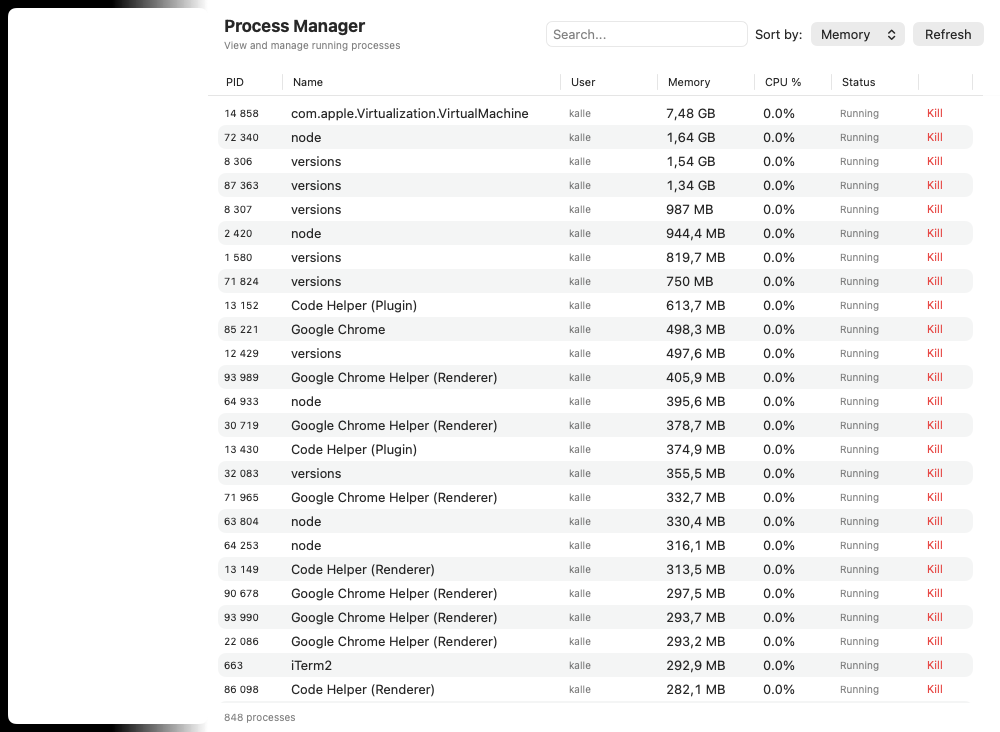
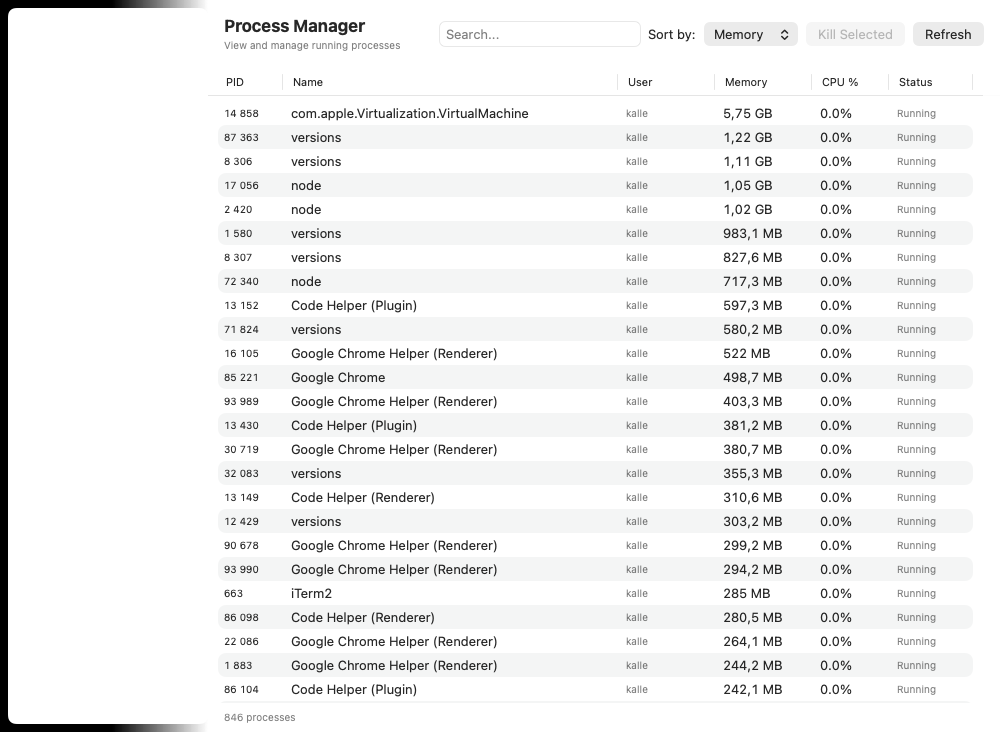
fix(ui): resolve medium-priority layout and accounting issues (#10-#13)
- Large File Finder: center empty state vertically, add scanning state
- DNS Flush: show DNS server config from scutil, add usage guidance section
- CacheCleaner: measure actual freed bytes via before/after scan instead of
  assuming full category size on partial failures
- BrowserCleanup: use recursive directory size for accurate freed accounting
- Process Manager: replace per-row Kill buttons with right-click context menu
  and header Kill Selected button

Closes #10, #11, #12, #13

diff --git a/Sources/MakeMyMacFastAgain/Features/DNSFlush/DNSFlushView.swift b/Sources/MakeMyMacFastAgain/Features/DNSFlush/DNSFlushView.swift
@@ -4,54 +4,89 @@ struct DNSFlushView: View {
     @State private var viewModel = DNSFlushViewModel()
 
     var body: some View {
-        VStack(spacing: 24) {
-            Spacer()
+        VStack(spacing: 0) {
+            FeatureHeader(title: "DNS Cache Flush", subtitle: "Resolve connectivity issues by clearing stale DNS records") {
+                if viewModel.isFlushing {
+                    ProgressView()
+                        .controlSize(.small)
+                }
 
-            VStack(spacing: 16) {
-                Image(systemName: "network")
-                    .font(.system(size: 48))
-                    .foregroundStyle(.secondary)
-
-                Text("DNS Cache Flush")
-                    .font(.title.bold())
-
-                Text("Flushing the DNS cache can resolve issues with website connectivity, stale DNS records, or after changing DNS servers.")
-                    .font(.body)
-                    .foregroundStyle(.secondary)
-                    .multilineTextAlignment(.center)
-                    .frame(maxWidth: 400)
-            }
-
-            if viewModel.isFlushing {
-                ProgressView("Flushing...")
-            } else {
                 Button("Flush DNS Cache") {
                     Task { await viewModel.flushDNS() }
                 }
                 .buttonStyle(.borderedProminent)
-                .controlSize(.large)
+                .disabled(viewModel.isFlushing)
             }
 
-            if let succeeded = viewModel.flushSucceeded {
-                HStack(spacing: 8) {
-                    Image(systemName: succeeded ? "checkmark.circle.fill" : "xmark.circle.fill")
-                        .foregroundStyle(succeeded ? .green : .red)
-                    Text(viewModel.statusMessage)
-                        .font(.callout)
+            List {
+                if let succeeded = viewModel.flushSucceeded {
+                    Section("Result") {
+                        HStack(spacing: 8) {
+                            Image(systemName: succeeded ? "checkmark.circle.fill" : "xmark.circle.fill")
+                                .foregroundStyle(succeeded ? .green : .red)
+                            Text(viewModel.statusMessage)
+                        }
+                    }
                 }
-                .padding()
-                .background(.regularMaterial, in: RoundedRectangle(cornerRadius: 10))
+
+                Section("When to Flush DNS") {
+                    Label("After changing DNS servers (e.g. switching to 1.1.1.1 or 8.8.8.8)", systemImage: "server.rack")
+                    Label("When websites fail to load but internet works", systemImage: "globe")
+                    Label("After editing /etc/hosts", systemImage: "doc.text")
+                    Label("When DNS records were recently updated for a domain", systemImage: "arrow.clockwise")
+                }
+                .font(.callout)
+
+                if !viewModel.dnsServers.isEmpty {
+                    Section("Current DNS Configuration") {
+                        ForEach(Array(viewModel.dnsServers.enumerated()), id: \.offset) { _, info in
+                            VStack(alignment: .leading, spacing: 4) {
+                                HStack {
+                                    Text(info.domain ?? "Default")
+                                        .font(.body.bold())
+                                    Spacer()
+                                    Text(info.resolver)
+                                        .font(.caption)
+                                        .foregroundStyle(.tertiary)
+                                }
+                                ForEach(info.servers, id: \.self) { server in
+                                    HStack(spacing: 6) {
+                                        Image(systemName: "circle.fill")
+                                            .font(.system(size: 4))
+                                            .foregroundStyle(.green)
+                                        Text(server)
+                                            .font(.callout.monospaced())
+                                            .foregroundStyle(.secondary)
+                                    }
+                                }
+                            }
+                            .padding(.vertical, 2)
+                        }
+                    }
+                } else if viewModel.isLoadingDNS {
+                    Section("Current DNS Configuration") {
+                        HStack {
+                            ProgressView()
+                                .controlSize(.small)
+                            Text("Loading DNS configuration...")
+                                .foregroundStyle(.secondary)
+                        }
+                    }
+                }
             }
 
-            if let date = viewModel.lastFlushDate {
-                Text("Last flushed: \(date, style: .relative) ago")
-                    .font(.caption)
-                    .foregroundStyle(.tertiary)
+            StatusBar(message: viewModel.lastFlushDate.map { "Last flushed: \(Self.relativeFormatter.localizedString(for: $0, relativeTo: Date()))" } ?? "DNS cache has not been flushed this session", isLoading: false) {
+                EmptyView()
             }
-
-            Spacer()
         }
-        .frame(maxWidth: .infinity)
-        .padding()
+        .task {
+            await viewModel.loadDNSInfo()
+        }
     }
+
+    private static let relativeFormatter: RelativeDateTimeFormatter = {
+        let f = RelativeDateTimeFormatter()
+        f.unitsStyle = .full
+        return f
+    }()
 }

diff --git a/Sources/MakeMyMacFastAgain/Features/DNSFlush/DNSFlushViewModel.swift b/Sources/MakeMyMacFastAgain/Features/DNSFlush/DNSFlushViewModel.swift
@@ -1,5 +1,11 @@
 import Foundation
 
+struct DNSServerInfo: Sendable {
+    let resolver: String
+    let servers: [String]
+    let domain: String?
+}
+
 @MainActor
 @Observable
 final class DNSFlushViewModel {
@@ -7,8 +13,23 @@ final class DNSFlushViewModel {
     var statusMessage = ""
     var lastFlushDate: Date?
     var flushSucceeded: Bool?
+    var dnsServers: [DNSServerInfo] = []
+    var isLoadingDNS = false
 
     private let privilegedExecutor = PrivilegedExecutor()
+    private let shell = ShellExecutor()
+
+    func loadDNSInfo() async {
+        isLoadingDNS = true
+        defer { isLoadingDNS = false }
+
+        do {
+            let result = try await shell.run("scutil --dns")
+            dnsServers = parseDNSOutput(result.output)
+        } catch {
+            dnsServers = []
+        }
+    }
 
     func flushDNS() async {
         isFlushing = true
@@ -26,5 +47,54 @@ final class DNSFlushViewModel {
         }
 
         isFlushing = false
+    }
+
+    private func parseDNSOutput(_ output: String) -> [DNSServerInfo] {
+        var results: [DNSServerInfo] = []
+        var currentResolver = ""
+        var currentServers: [String] = []
+        var currentDomain: String?
+
+        for line in output.components(separatedBy: "\n") {
+            let trimmed = line.trimmingCharacters(in: .whitespaces)
+
+            if trimmed.hasPrefix("resolver #") {
+                if !currentResolver.isEmpty && !currentServers.isEmpty {
+                    results.append(DNSServerInfo(
+                        resolver: currentResolver,
+                        servers: currentServers,
+                        domain: currentDomain
+                    ))
+                }
+                currentResolver = trimmed
+                currentServers = []
+                currentDomain = nil
+            } else if trimmed.hasPrefix("nameserver[") {
+                if let colonIdx = trimmed.firstIndex(of: ":") {
+                    let server = String(trimmed[trimmed.index(after: colonIdx)...]).trimmingCharacters(in: .whitespaces)
+                    currentServers.append(server)
+                }
+            } else if trimmed.hasPrefix("domain   :") {
+                currentDomain = String(trimmed.dropFirst("domain   :".count)).trimmingCharacters(in: .whitespaces)
+            } else if trimmed.hasPrefix("search domain[") {
+                if let colonIdx = trimmed.firstIndex(of: ":") {
+                    let domain = String(trimmed[trimmed.index(after: colonIdx)...]).trimmingCharacters(in: .whitespaces)
+                    if currentDomain == nil {
+                        currentDomain = domain
+                    }
+                }
+            }
+        }
+
+        // Don't forget last resolver
+        if !currentResolver.isEmpty && !currentServers.isEmpty {
+            results.append(DNSServerInfo(
+                resolver: currentResolver,
+                servers: currentServers,
+                domain: currentDomain
+            ))
+        }
+
+        return results
     }
 }

diff --git a/Sources/MakeMyMacFastAgain/Features/BrowserCleanup/BrowserCleanupViewModel.swift b/Sources/MakeMyMacFastAgain/Features/BrowserCleanup/BrowserCleanupViewModel.swift
@@ -106,13 +106,13 @@ final class BrowserCleanupViewModel {
 
             if cleanCache {
                 for path in browser.cachePaths {
-                    freedSpace += removePath(path)
+                    freedSpace += await removePath(path)
                 }
             }
 
             if cleanCookies {
                 for path in browser.cookiePaths {
-                    freedSpace += removePath(path)
+                    freedSpace += await removePath(path)
                 }
             }
         }
@@ -122,32 +122,28 @@ final class BrowserCleanupViewModel {
         await scanSizes()
     }
 
-    private func removePath(_ path: String) -> UInt64 {
+    private func removePath(_ path: String) async -> UInt64 {
         let fm = FileManager.default
         guard fm.fileExists(atPath: path) else { return 0 }
 
+        let sizeBefore = await fileScanner.calculateDirectorySize(path)
+
         do {
             let attrs = try fm.attributesOfItem(atPath: path)
-            let size = attrs[.size] as? UInt64 ?? 0
 
             if (attrs[.type] as? FileAttributeType) == .typeDirectory {
                 let contents = try fm.contentsOfDirectory(atPath: path)
-                var totalFreed: UInt64 = 0
                 for item in contents {
-                    let itemPath = "\(path)/\(item)"
-                    if let itemAttrs = try? fm.attributesOfItem(atPath: itemPath),
-                       let itemSize = itemAttrs[.size] as? UInt64 {
-                        totalFreed += itemSize
-                    }
-                    try fm.removeItem(atPath: itemPath)
+                    try? fm.removeItem(atPath: "\(path)/\(item)")
                 }
-                return totalFreed
             } else {
                 try fm.removeItem(atPath: path)
-                return size
             }
         } catch {
-            return 0
+            // Continue — partial cleanup still counts
         }
+
+        let sizeAfter = await fileScanner.calculateDirectorySize(path)
+        return sizeBefore > sizeAfter ? sizeBefore - sizeAfter : 0
     }
 }

diff --git a/Sources/MakeMyMacFastAgain/Features/ProcessManager/ProcessManagerView.swift b/Sources/MakeMyMacFastAgain/Features/ProcessManager/ProcessManagerView.swift
@@ -1,3 +1,4 @@
+import AppKit
 import SwiftUI
 
 struct ProcessManagerView: View {
@@ -49,16 +50,25 @@ struct ProcessManagerView: View {
                 }
                 .width(70)
 
-                TableColumn("") { process in
-                    Button("Kill") {
+            }
+            .contextMenu(forSelectionType: AppProcessInfo.ID.self) { pids in
+                if let pid = pids.first,
+                   let process = viewModel.processes.first(where: { $0.pid == pid }) {
+                    Button("Kill (SIGTERM)") {
                         processToKill = process
                         showKillConfirmation = true
                     }
-                    .buttonStyle(.borderless)
-                    .foregroundStyle(.red)
-                    .controlSize(.small)
+                    Button("Force Kill (SIGKILL)") {
+                        processToKill = process
+                        showKillConfirmation = true
+                    }
+                    Divider()
+                    Button("Reveal in Activity Monitor") {
+                        NSWorkspace.shared.open(URL(fileURLWithPath: "/System/Applications/Utilities/Activity Monitor.app"))
+                    }
                 }
-                .width(40)
+            } primaryAction: { pids in
+                // Double-click: no-op
             }
 
             statusBar
@@ -106,6 +116,15 @@ struct ProcessManagerView: View {
                 }
             }
             .frame(width: 150)
+
+            Button("Kill Selected") {
+                if let pid = viewModel.selectedProcessID,
+                   let process = viewModel.processes.first(where: { $0.pid == pid }) {
+                    processToKill = process
+                    showKillConfirmation = true
+                }
+            }
+            .disabled(viewModel.selectedProcessID == nil)
 
             Button("Refresh") {
                 viewModel.refresh()

diff --git a/Sources/MakeMyMacFastAgain/Features/CacheCleaner/CacheCleanerViewModel.swift b/Sources/MakeMyMacFastAgain/Features/CacheCleaner/CacheCleanerViewModel.swift
@@ -105,25 +105,24 @@ final class CacheCleanerViewModel {
                 let fileManager = FileManager.default
                 guard fileManager.fileExists(atPath: path) else { continue }
 
+                let sizeBefore = await fileScanner.calculateDirectorySize(path)
+
                 if category.requiresAdmin {
                     do {
                         _ = try await privilegedExecutor.run("rm -rf '\(path)'/*")
-                        freedSpace += category.size
                     } catch {
                         statusMessage = "Failed to clean \(category.name): \(error.localizedDescription)"
                     }
                 } else {
-                    do {
-                        let contents = try fileManager.contentsOfDirectory(atPath: path)
-                        for item in contents {
-                            let itemPath = "\(path)/\(item)"
-                            try fileManager.removeItem(atPath: itemPath)
-                        }
-                        freedSpace += category.size
-                    } catch {
-                        statusMessage = "Failed to clean \(category.name): \(error.localizedDescription)"
+                    let contents = (try? fileManager.contentsOfDirectory(atPath: path)) ?? []
+                    for item in contents {
+                        let itemPath = "\(path)/\(item)"
+                        try? fileManager.removeItem(atPath: itemPath)
                     }
                 }
+
+                let sizeAfter = await fileScanner.calculateDirectorySize(path)
+                freedSpace += sizeBefore > sizeAfter ? sizeBefore - sizeAfter : 0
             }
         }
 

diff --git a/Sources/MakeMyMacFastAgain/Features/LargeFileFinder/LargeFileFinderView.swift b/Sources/MakeMyMacFastAgain/Features/LargeFileFinder/LargeFileFinderView.swift
@@ -14,6 +14,16 @@ struct LargeFileFinderView: View {
                     systemImage: "doc.text.magnifyingglass",
                     description: Text("Click Scan to search for large files in your home directory.")
                 )
+                .frame(maxHeight: .infinity)
+            } else if viewModel.files.isEmpty && viewModel.isScanning {
+                VStack(spacing: 16) {
+                    ProgressView()
+                        .controlSize(.large)
+                    Text("Scanning \(viewModel.filesScanned) files...")
+                        .font(.callout)
+                        .foregroundStyle(.secondary)
+                }
+                .frame(maxHeight: .infinity)
             } else {
                 Table(viewModel.files, selection: $viewModel.selectedFileIDs) {
                     TableColumn("Name") { file in
